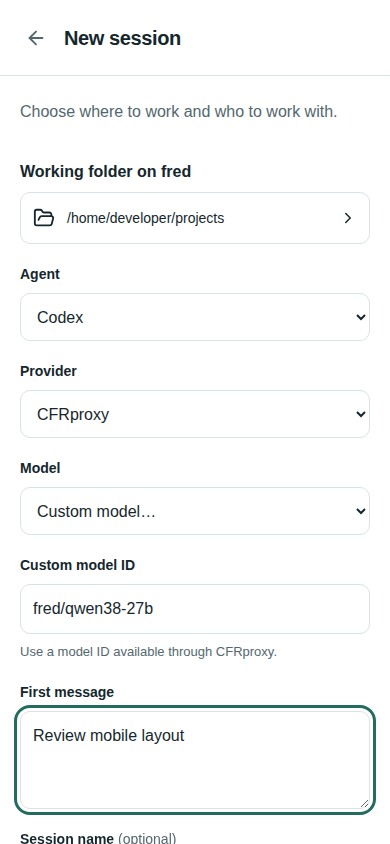
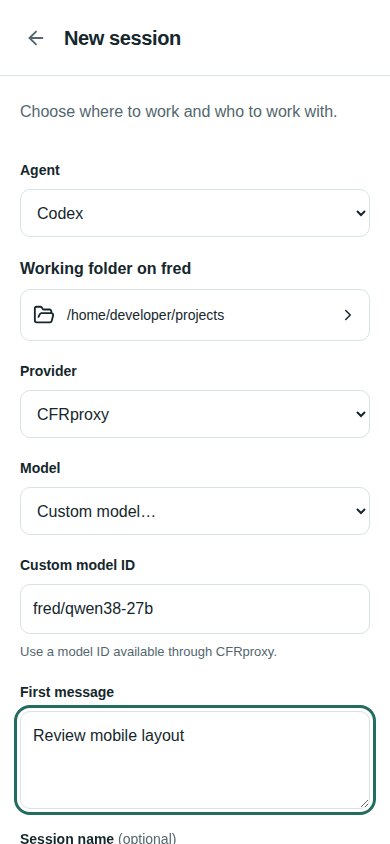
Expose DSH in agent selection and support clipboard screenshots

Changed region(s): [[0.0308, 0.3081, 0.5846, 0.4005], [0.0615, 0.2464, 0.5846, 0.2773], [0.0308, 0.1848, 0.4923, 0.2156]]

diff --git a/tests/e2e/mobile.spec.ts b/tests/e2e/mobile.spec.ts
@@ -936,3 +936,151 @@ test('Settings offers install help, invokes a captured native installer once, an
   await expect(page.getByText('Relay is installed on this device.')).toBeVisible();
   await page.screenshot({ path: 'docs/screenshots/install-app-mobile.png' });
 });
+
+test('DSH is selectable without discovering a separate host and launches the chosen model', async ({
+  page,
+}) => {
+  await page.setViewportSize({ width: 390, height: 844 });
+  await pair(page);
+  await page.route('**/api/launch/profiles', (route) =>
+    route.fulfill({
+      json: {
+        profiles: [
+          {
+            id: 'codex',
+            hostId: 'fred',
+            harness: 'codex',
+            provider: 'Account',
+            connected: true,
+            models: [],
+            allowCustomModel: false,
+          },
+          {
+            id: 'dsh-cfrproxy',
+            hostId: 'fred-dsh',
+            harness: 'dsh',
+            provider: 'CFRproxy',
+            connected: true,
+            models: [
+              { id: 'codex/gpt-6.1-sol', name: 'Sol' },
+              { id: 'gpt-6-astra', name: 'Astra' },
+            ],
+            allowCustomModel: false,
+          },
+        ],
+      },
+    }),
+  );
+  await page.route('**/api/launch/folders?*', async (route) => {
+    expect(new URL(route.request().url()).searchParams.get('profileId')).toBe('dsh-cfrproxy');
+    await route.fulfill({
+      json: { path: '/home/developer/project', parent: null, directories: [], truncated: false },
+    });
+  });
+  let launched: any;
+  await page.route('**/api/launch', async (route) => {
+    launched = route.request().postDataJSON();
+    await route.fulfill({
+      json: {
+        requestId: launched.requestId,
+        status: 'started',
+        hostId: 'fred-dsh',
+        terminalId: 'dsh:new',
+      },
+    });
+  });
+  await page.getByRole('button', { name: 'New session', exact: true }).click();
+  await page.getByRole('combobox', { name: 'Agent', exact: true }).selectOption('dsh');
+  await expect(page.getByRole('combobox', { name: 'Provider', exact: true })).toContainText(
+    'CFRproxy',
+  );
+  await page.getByRole('button', { name: 'Choose a folder on fred-dsh' }).click();
+  await page.getByRole('button', { name: 'Use this folder' }).click();
+  await page.getByLabel('Model', { exact: true }).selectOption('gpt-6-astra');
+  await page.getByLabel('First message').fill('Review the mobile interface');
+  await page.locator('.new-session-scroll').evaluate((el) => {
+    el.scrollTop = 0;
+  });
+  await page.screenshot({ path: 'docs/screenshots/dsh-launch-mobile.png' });
+  await page.getByRole('button', { name: 'Start session', exact: true }).click();
+  await expect(page.getByText('Agent started. Connecting its conversation…')).toBeVisible();
+  expect(launched).toMatchObject({
+    profileId: 'dsh-cfrproxy',
+    cwd: '/home/developer/project',
+    model: 'gpt-6-astra',
+    prompt: 'Review the mobile interface',
+  });
+});
+
+test('clipboard screenshot uploads once, keeps draft text, and sends the attachment', async ({
+  page,
+  context,
+}) => {
+  await page.setViewportSize({ width: 390, height: 844 });
+  await pair(page);
+  await page.getByRole('button', { name: /Atlas API/ }).click();
+  await context.grantPermissions(['clipboard-read', 'clipboard-write']);
+  await page.evaluate(async () => {
+    const canvas = document.createElement('canvas');
+    canvas.width = 20;
+    canvas.height = 20;
+    canvas.getContext('2d')!.fillRect(0, 0, 20, 20);
+    const blob = await new Promise<Blob>((resolve) =>
+      canvas.toBlob((b) => resolve(b!), 'image/png'),
+    );
+    await navigator.clipboard.write([new ClipboardItem({ 'image/png': blob })]);
+  });
+  await page.getByLabel('Instruction', { exact: true }).fill('Look at this screenshot');
+  await page.getByRole('button', { name: 'Add files or images' }).click();
+  await page.screenshot({ path: 'docs/screenshots/clipboard-menu-mobile.png' });
+  await page.getByRole('button', { name: 'Paste screenshot', exact: true }).click();
+  await expect(page.getByText(/KB · Ready/)).toHaveCount(1);
+  await expect(page.getByLabel('Instruction', { exact: true })).toHaveValue(
+    'Look at this screenshot',
+  );
+  await expect(page.getByRole('img', { name: /Preview of Screenshot-/ })).toBeVisible();
+  await page.screenshot({ path: 'docs/screenshots/clipboard-preview-mobile.png' });
+  // The normal browser paste gesture shares this upload path as well.
+  await page.getByLabel('Instruction', { exact: true }).focus();
+  await page.keyboard.press('Control+v');
+  await expect(page.getByText(/KB · Ready/)).toHaveCount(2);
+  await page.getByLabel('Instruction behavior').selectOption('queue');
+  const response = page.waitForResponse(
+    (r) => r.url().endsWith('/tasks') && r.request().method() === 'POST',
+  );
+  await page.getByRole('button', { name: 'Queue instruction', exact: true }).click();
+  expect((await response).request().postDataJSON().attachments).toHaveLength(2);
+  await expect(page.getByLabel('Message attachments')).toHaveCount(0);
+});
+
+test('clipboard denial or no image gives a usable photo fallback without losing the draft', async ({
+  page,
+}) => {
+  await page.setViewportSize({ width: 320, height: 740 });
+  await pair(page);
+  await page.getByRole('button', { name: /Atlas API/ }).click();
+  await page.getByLabel('Instruction', { exact: true }).fill('Preserve me');
+  await page.evaluate(() =>
+    Object.defineProperty(navigator.clipboard, 'read', {
+      configurable: true,
+      value: async () => {
+        throw new DOMException('Denied', 'NotAllowedError');
+      },
+    }),
+  );
+  await page.getByRole('button', { name: 'Add files or images' }).click();
+  await page.getByRole('button', { name: 'Paste screenshot', exact: true }).click();
+  await expect(page.getByRole('alert')).toContainText('Clipboard access was blocked');
+  await expect(page.getByRole('button', { name: 'Photos', exact: true })).toBeVisible();
+  await expect(page.getByLabel('Instruction', { exact: true })).toHaveValue('Preserve me');
+  await page.evaluate(() =>
+    Object.defineProperty(navigator.clipboard, 'read', {
+      configurable: true,
+      value: async () => [],
+    }),
+  );
+  await page.getByRole('button', { name: 'Paste screenshot', exact: true }).click();
+  await expect(page.getByRole('alert')).toContainText('No image was shared');
+  await expect(page.getByLabel('Message attachments')).toHaveCount(0);
+  expect(await page.evaluate(() => document.documentElement.scrollWidth <= innerWidth)).toBe(true);
+});

diff --git a/apps/web/src/NewSession.tsx b/apps/web/src/NewSession.tsx
@@ -79,6 +79,8 @@ export function NewSession({
   const profiles = useQuery<{ profiles: Profile[] }>({
     queryKey: ['launch-profiles'],
     queryFn: () => api('/api/launch/profiles'),
+    refetchOnMount: 'always',
+    refetchInterval: 30000,
   });
   const list = profiles.data?.profiles ?? [];
   const profile = list.find((p) => p.id === draft.profileId) ?? list[0];
@@ -185,16 +187,47 @@ export function NewSession({
           {profile && (
             <>
               <fieldset disabled={frozen}>
-                {[...new Set(list.map((p) => p.hostId))].length > 1 && (
+                <label>
+                  Agent
+                  <select
+                    value={profile.harness}
+                    onChange={(e) =>
+                      chooseProfile(
+                        list.find(
+                          (p) => p.hostId === profile.hostId && p.harness === e.target.value,
+                        ) ?? list.find((p) => p.harness === e.target.value)!,
+                      )
+                    }
+                  >
+                    {[...new Set(list.map((p) => p.harness))].map((h) => (
+                      <option key={h} value={h}>
+                        {labels[h] ?? h}
+                      </option>
+                    ))}
+                  </select>
+                </label>
+                {[
+                  ...new Set(
+                    list.filter((p) => p.harness === profile.harness).map((p) => p.hostId),
+                  ),
+                ].length > 1 && (
                   <label>
                     Host
                     <select
                       value={profile.hostId}
                       onChange={(e) =>
-                        chooseProfile(list.find((p) => p.hostId === e.target.value)!)
+                        chooseProfile(
+                          list.find(
+                            (p) => p.hostId === e.target.value && p.harness === profile.harness,
+                          )!,
+                        )
                       }
                     >
-                      {[...new Set(list.map((p) => p.hostId))].map((host) => (
+                      {[
+                        ...new Set(
+                          list.filter((p) => p.harness === profile.harness).map((p) => p.hostId),
+                        ),
+                      ].map((host) => (
                         <option key={host}>{host}</option>
                       ))}
                     </select>
@@ -277,29 +310,6 @@ export function NewSession({
                     )}
                   </div>
                 )}
-                <label>
-                  Agent
-                  <select
-                    value={profile.harness}
-                    onChange={(e) =>
-                      chooseProfile(
-                        list.find(
-                          (p) => p.hostId === profile.hostId && p.harness === e.target.value,
-                        )!,
-                      )
-                    }
-                  >
-                    {[
-                      ...new Set(
-                        list.filter((p) => p.hostId === profile.hostId).map((p) => p.harness),
-                      ),
-                    ].map((h) => (
-                      <option key={h} value={h}>
-                        {labels[h] ?? h}
-                      </option>
-                    ))}
-                  </select>
-                </label>
                 <label>
                   Provider
                   <select

diff --git a/apps/web/src/attachments.tsx b/apps/web/src/attachments.tsx
@@ -1,5 +1,13 @@
 import { useEffect, useRef, useState } from 'react';
-import { Camera, FilePlus2, ImagePlus, Paperclip, X, RotateCcw } from 'lucide-react';
+import {
+  Camera,
+  ClipboardPaste,
+  FilePlus2,
+  ImagePlus,
+  Paperclip,
+  X,
+  RotateCcw,
+} from 'lucide-react';
 import { api, uploadFile, downloadAttachment } from '@harnessrc/client-sdk';
 export type DraftFile = {
   key: string;
@@ -113,6 +121,9 @@ export function AttachmentPicker({
   add: (files: File[]) => void;
 }) {
   const [open, setOpen] = useState(false);
+  const [pasting, setPasting] = useState(false);
+  const [pasteError, setPasteError] = useState('');
+  const pastingRef = useRef(false);
   const container = useRef<HTMLDivElement>(null);
   useEffect(() => {
     if (!open) return;
@@ -140,6 +151,49 @@ export function AttachmentPicker({
     input.value = '';
     setOpen(false);
   };
+  const pasteScreenshot = async () => {
+    if (disabled || pastingRef.current) return;
+    setPasteError('');
+    if (!navigator.clipboard?.read) {
+      setPasteError(
+        'This browser cannot read clipboard images. Choose Photos to attach your screenshot.',
+      );
+      return;
+    }
+    pastingRef.current = true;
+    setPasting(true);
+    try {
+      // Read only after this explicit tap; never inspect the clipboard on focus.
+      const items = await navigator.clipboard.read();
+      const images: File[] = [];
+      for (const item of items) {
+        const type = item.types.find((t) =>
+          ['image/png', 'image/jpeg', 'image/webp', 'image/gif'].includes(t),
+        );
+        if (!type) continue;
+        const blob = await item.getType(type);
+        images.push(
+          new File([blob], `Screenshot-${Date.now()}-${images.length + 1}.${type.split('/')[1]}`, {
+            type,
+          }),
+        );
+      }
+      if (!images.length) {
+        setPasteError(
+          'No image was shared by the clipboard. Copy a screenshot first, or choose Photos.',
+        );
+        return;
+      }
+      add(images);
+      setOpen(false);
+      container.current?.querySelector('button')?.focus();
+    } catch {
+      setPasteError('Clipboard access was blocked. Allow paste in your browser, or choose Photos.');
+    } finally {
+      pastingRef.current = false;
+      setPasting(false);
+    }
+  };
   return (
     <div className="attachment-picker" ref={container}>
       <button
@@ -156,6 +210,14 @@ export function AttachmentPicker({
       </button>
       {open && (
         <div className="attachment-menu" role="group" aria-label="Attachment options">
+          <button
+            type="button"
+            disabled={disabled || pasting}
+            onClick={() => void pasteScreenshot()}
+          >
+            <ClipboardPaste size={20} aria-hidden="true" />
+            {pasting ? 'Reading clipboard…' : 'Paste screenshot'}
+          </button>
           <button
             type="button"
             onClick={() => {
@@ -186,6 +248,11 @@ export function AttachmentPicker({
             <FilePlus2 size={20} />
             Files
           </button>
+          {pasteError && (
+            <p className="clipboard-error" role="alert">
+              {pasteError}
+            </p>
+          )}
         </div>
       )}
       <input

diff --git a/apps/web/src/style.css b/apps/web/src/style.css
@@ -2608,9 +2608,11 @@ code {
   background: var(--border);
 }
 .attachment-menu {
-  display: flex;
+  display: grid;
+  grid-template-columns: repeat(2, minmax(0, 1fr));
   gap: 4px;
-  min-width: 272px;
+  width: min(272px, calc(100vw - 40px));
+  min-width: 0;
   padding: 8px;
   border-radius: 20px;
   box-shadow: 0 8px 32px #0003;
@@ -2863,4 +2865,11 @@ body,
 .agent-choices button {
   padding-inline: 8px;
   font-size: 0.8125rem;
+}
+
+.clipboard-error {
+  grid-column: 1 / -1;
+  margin: 4px 8px;
+  font-size: 0.8125rem;
+  color: var(--text);
 }

diff --git a/docs/UI_DESIGN.md b/docs/UI_DESIGN.md
@@ -76,3 +76,11 @@ Steer inserts a local outgoing message immediately, clears and refocuses the com
 The edge gesture test now uses Chromium's touch input protocol rather than JavaScript-created touch events. A narrow `pan-y` edge target lets horizontal movement reach the drawer while preserving vertical scrolling. Browser touch simulation still does not establish behavior against physical Android/iOS system back gestures; the menu button remains available.
 
 The default composer now posts to the dedicated immediate-message endpoint. Native state chooses Send or Steer at delivery time; browser status affects the label only. Immediate sends get the same local outgoing card and composer preservation as steering. Only an explicit Queue selection schedules a future task. The end-to-end regression asserts the HTTP route and native delivery mode, not merely the button text.
+
+### DSH launch discovery and clipboard screenshots
+
+The new-session form now starts with an Agent selector spanning all configured launch profiles. Choosing DSH selects its native connection automatically, instead of hiding DSH behind the `fred-dsh` Host choice. Hosts are offered only when the selected agent has multiple destinations; folder access remains scoped to the selected launch profile. Model IDs and durable launch receipts are unchanged. The catalog refreshes while the form is open.
+
+Attach includes an explicit **Paste screenshot** action using the browser Clipboard API after a user tap. It creates ordinary draft attachments with preview, progress, removal and existing Send/Steer behavior; it does not send automatically or read clipboard contents on focus. Standard file paste continues to work. The attachment chooser uses a compact two-column grid with 48px-plus targets, semantic colors, and inline denied/empty/unsupported clipboard recovery via Photos. Android keyboard apps may refuse to deliver images to a textarea, so the explicit action avoids depending on that keyboard path. Physical Android clipboard permission and keyboard behavior still require device confirmation.
+
+Regression coverage includes selecting DSH from the initial Agent menu, choosing its folder/model and checking the launch request; actual Chromium clipboard write/read and Ctrl+V uploads; attachment delivery; and denied/empty clipboard fallback at 320px. No design-token or motion changes were needed (variance 3, motion 2, density 4).
